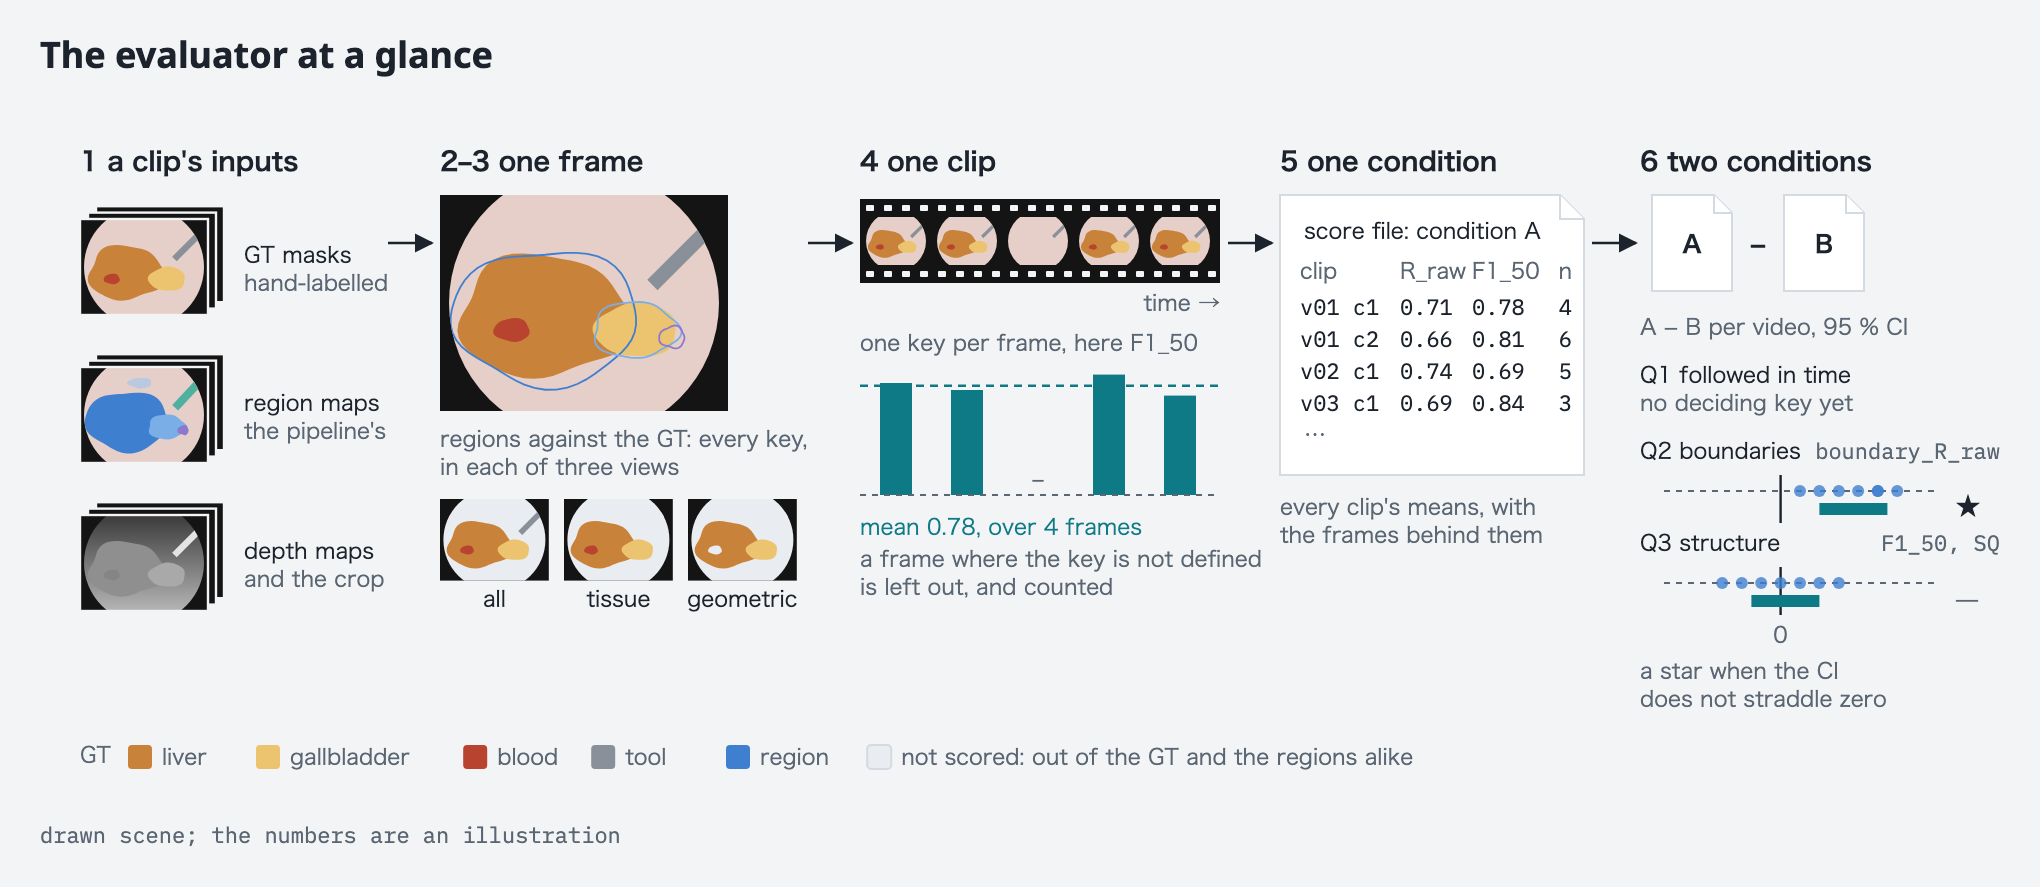
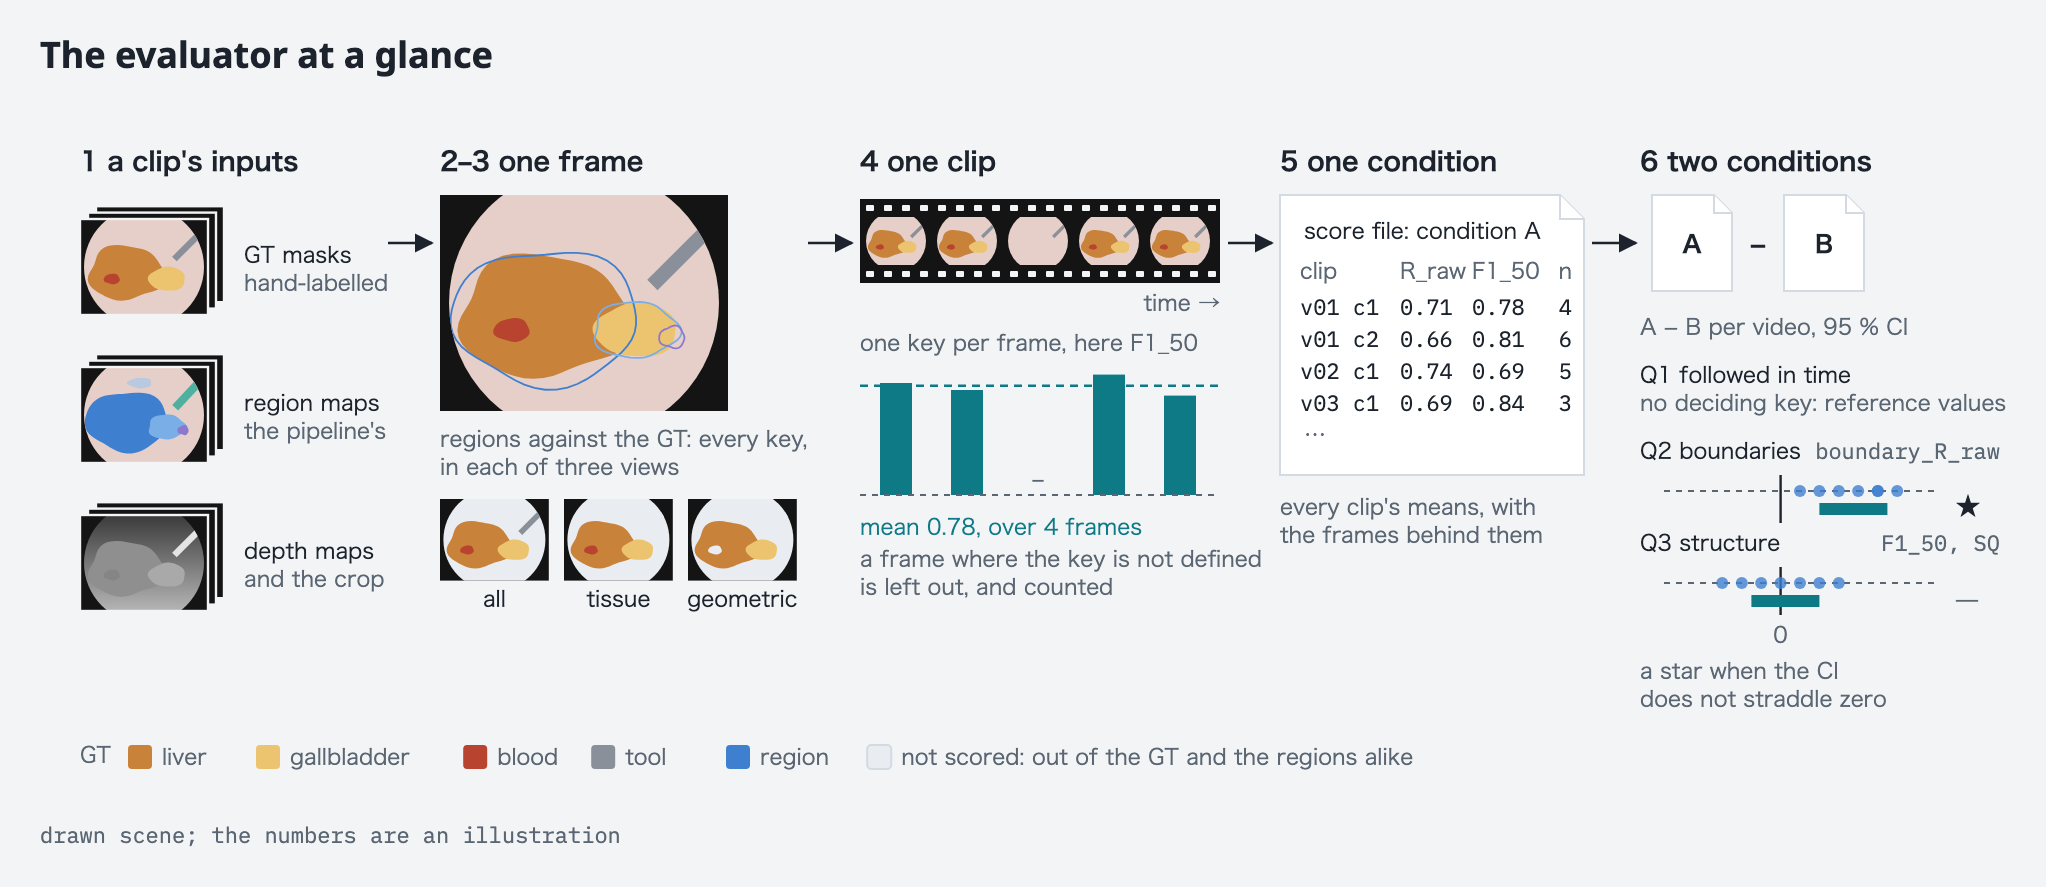
docs: kmerge gets a decision of its own, the GT track of track_metrics is an open question, and the figures follow
Review fixes on the identity-metrics decision:

- `docs/porting.md`: `kmerge` leaves "No measure over time carries a star",
  which does not cover it, for a decision of its own, "`kmerge` is a tool",
  worded as its port is: it writes merged predictions as a condition and
  computes no metric. The `kmerge` row names everything the workbench's
  copy borrows from `paired_stats`. The two pre-registered definitions of
  `hold_mean` are named. A new open question, "The GT track of
  `track_metrics`", holds what the tool's track definition leaves open.
- `docs/evaluation.md`: the faults list covers all five measures, and
  re-entry's fault is its definition, not its range of values. "only" is
  back in the `time_IoU` sentence. The summary names the section it points
  to instead of its place.
- `docs/figures/`: the three figures that said the first question was not
  decided yet are redrawn from their generators: Q1 has no key, identity over
  time is a tool's reference value, outside the evaluator.
- `evalkit/README.md`, `docs/workstreams.md`, `docs/pilot_metric_guide.html`,
  `AGENTS.md`: the same decision; `track_metrics` waits on its GT track,
  `kmerge` on nothing; the `tools/` line matches the other open ports.

diff --git a/docs/pilot_metric_guide.html b/docs/pilot_metric_guide.html
@@ -86,7 +86,7 @@ Pixels with no region count as a region of their own.</li>
[1 lines of base64/hex data omitted]
 <p class="note">An id present in only one of the two frames is skipped, so a region that disappears, or a new one,
 costs nothing. <span class="evaluator">The evaluator keeps time_IoU as a reference value only, and never gives it a star:
-coarse regions score well on it. How to score whether a region keeps its identity is not decided yet.</span></p>
+coarse regions score well on it. Whether a region keeps its identity is measured by a tool outside the evaluator, as reference values; no measure over time carries a star.</span></p>
 
 <h2>Behaviours to know</h2>
 <ul>

diff --git a/docs/porting.md b/docs/porting.md
@@ -117,23 +117,28 @@ Where they and this document differ, this document holds.
     value, and the evaluator computes no measure of identity from the
     workbench's `track_metrics` (hold, IDF1, ID switches, fragmentation,
     re-entry). `track_metrics` is ported as a tool under `evalkit/tools/`,
-    outside `eval_code_sha`, and what it reports is a reference value:
-    measured, and written about when it shows something, never marked with a
-    star. So `docs/evaluation.md` defines no GT track. The tool defines its
-    own when it is ported, without `MIN_AREA` ("No minimum object size,
-    anywhere"). The evaluator's whole-class object, followed over time, needs
-    no rule to link pieces and no size; the workbench linked each class's
-    components instead. If `hold_mean` is carried under that name, it keeps
-    the workbench's definition, which was pre-registered there. A different
-    denominator is a different metric, with a different name: in the
-    workbench, moving the denominator once flipped a result's sign. `kmerge`
-    is ported as a tool too. It changes predictions, not metrics: it merges a
-    condition's regions down to K, and the evaluator's instance metrics score
-    the merged regions, so a comparison of them is read like any other. The
-    paper's granularity result merges to a fixed K of 10. The `matched`
-    setting, which took K from the pilot's GT components of at least 300 px,
-    is not carried for now: under the evaluator a GT object is a whole class,
-    and that K would need a definition of its own.
+    outside `eval_code_sha`, and what it reports is a reference value: it
+    is measured and reported in a table that carries no star. So
+    `docs/evaluation.md` defines no GT track. The tool defines its own when
+    it is ported, without `MIN_AREA` ("No minimum object size, anywhere");
+    that track is an open question ("The GT track of `track_metrics`"). The
+    workbench pre-registered two definitions under the name `hold_mean`: one
+    per condition, in `track_metrics`, and one over the GT tracks that every
+    compared condition registered, in `summarize_track16`. The tool carries
+    at most one of them under that name, and the other under a name of its
+    own, because a different denominator is a different metric: in the
+    workbench, moving the denominator once flipped a result's sign. Which
+    one keeps the name is settled with the tool's GT track.
+14. **`kmerge` is a tool.** `kmerge` is ported under `evalkit/tools/`,
+    outside `eval_code_sha`. It changes predictions, not metrics: it merges
+    a condition's regions down to K and writes them as a condition of their
+    own, which the evaluator scores and `compare_eval` compares. So it
+    computes no metric, and a comparison of a merged condition can carry a
+    star like any other. The paper's granularity result merges to a fixed K
+    of 10. The `matched` setting, which took K from the pilot's GT
+    components of at least 300 px, is not carried for now: under the
+    evaluator a GT object is a whole class, and that K would need a
+    definition of its own.
 
 ## What moves
 
@@ -169,10 +174,10 @@ copy to read the RGB clips, and the ported copies read `evalkit.classes`.
 |---|---|---|---|
 | `paired_stats.py` | `ipcai2027_experiment/scripts/paired_stats.py` | `extract/03-metrics` (#3) | `VERDICT_RULE` does not change. The comparability check is `scores.check_comparable`, which applies the rule of `docs/evaluation.md`, in place of the pilot's, and the statistics are taken on the clips it compared. `video_of` is defined here rather than delegated. Each row records the metric's `sign` and `verdict` reads the interval in it, so a metric where smaller is better, or a reference value that is never marked, is not oriented by the caller. A bootstrap over fewer than two units refuses rather than return a point. |
 | `compare_eval.py` | `depth_sam_tracking_experiment/compare_eval.py` | `extract/03-metrics` (#3) | It refuses to mix shas through `scores.check_comparable`, which also compares dataset, class set, view and mode. The table prints each metric's direction and no mark: the workbench's circle and cross followed the sign of the mean difference, a second verdict beside `paired_stats.verdict`. The per-clip list, the chart and `wins` follow the question's primary metric, named with `--key`; the directions of the pilot keys come from `scores.PILOT_SIGNS`, the one table `paired_stats` reads too. |
-| `track_metrics.py` | `depth_sam_tracking_experiment/track_metrics.py` | `extract/03-metrics` (#3) | It imports `BACKGROUND`, `_gt_idmap` and `_load_depth` from the pilot's `eval_track`; they come from the evaluator instead. `MIN_AREA` is removed ("No minimum object size, anywhere"). It is a tool, outside the evaluator, and its values are reference values ("No measure over time carries a star"). |
+| `track_metrics.py` | `depth_sam_tracking_experiment/track_metrics.py` | `extract/03-metrics` (#3) | It imports `BACKGROUND`, `_gt_idmap` and `_load_depth` from the pilot's `eval_track`; they come from the evaluator instead. `MIN_AREA` is removed ("No minimum object size, anywhere"). It is a tool, outside the evaluator, and its values are reference values ("No measure over time carries a star"). Its GT track is open ("The GT track of `track_metrics`"). |
 | `surgical_core/clip_time.py` | `surgical_core/clip_time.py` | `extract/03-metrics` (#3) | English only. |
 | `surgical_core/viewer/labels.py`, `palette.py` | `surgical_core/viewer/` | `extract/03-metrics` (#3) | English only. `label_table_of` and `cholec_gt_table` move to a new `gt_tables.py`, the one viewer module that imports `evalkit`; `labels.py` builds its table from plain data, so a video with no class table gets one too. The rest of `surgical_core/viewer` is below, under "Not yet extracted anywhere". |
-| `kmerge.py` | `ipcai2027_experiment/scripts/kmerge.py` | `extract/04-kmerge` (#5) | It imports the pilot's `eval_track`, and borrows `verdict` from `paired_stats`. It keeps its own copy of `video_of`, which the port takes from `paired_stats` instead. It is a tool ("No measure over time carries a star"), and takes the evaluator's instance metrics in place of the pilot's. |
+| `kmerge.py` | `ipcai2027_experiment/scripts/kmerge.py` | `extract/04-kmerge` (#5) | It imports the pilot's `eval_track`, borrows `verdict`, `boot_ci`, `SEED_SCHEME` and `VERDICT_RULE` from `paired_stats`, and keeps a copy of `video_of`. It is ported as `evalkit/tools/kmerge.py`, outside `eval_code_sha` ("`kmerge` is a tool"). It merges a condition's predictions down to K and writes them as a condition of their own, which the evaluator scores and `compare_eval` compares, so it computes no metric and borrows nothing from `paired_stats`. Not carried for now: its scoring with the pilot's instance metrics, the curve over K, the `matched` K, `--pairs`, and the merges by threshold and by geometry (`tmerge_sequence`, `kgeo_sequence`). |
 | `surgical_core/geometry/` | `depth_sam_tracking_experiment/geometry.py` | `extract/04-kmerge` (#5) | English only. Shared by the pipeline and the toolkit. |
 | `condition_inventory.py` | `ipcai2027_experiment/scripts/condition_inventory.py` | `extract/05-inventory` (#4) | It reads `eval_code_sha`, `eval_code_tag` and `eval_version` from score JSONs. "One ruler" is now what `docs/evaluation.md` calls comparable: `eval_code_sha`, dataset, class set, view and mode all equal, and one propagation rule. The provenance fields now include `bidir`, whether the tracker ran both ways. |
 | `check_env.py` | `ipcai2027_experiment/atlas97/scripts/check_env97.py` | `extract/05-inventory` (#4) | Not carried (decision 4). |
@@ -256,7 +261,7 @@ while the evaluator is built and reviewed is worked out in `docs/workstreams.md`
 
 1. **Decide what the evaluator measures over time.** Decided: no measure
    over time carries a star, and `track_metrics` and `kmerge` are tools
-   ("No measure over time carries a star").
+   ("No measure over time carries a star", "`kmerge` is a tool").
 2. **Build the evaluator.** CPU only, as the `evalkit` package. Class tables,
    then metrics, then the entry point. It is done when:
    - the hand-derived tests pass, in both modes;
@@ -325,9 +330,29 @@ Every command takes those paths as arguments.
 
 ## Open questions
 
-1. **The skill-classification code and the other 18 viewer pages.** The plan
+1. **The GT track of `track_metrics`.** The tool measures identity against
+   GT tracks, and the datasets carry no ids for individual things, so the
+   tool defines the track itself ("No measure over time carries a star").
+   The workbench linked each class's connected components over time: a
+   component joins a track of the same class when its IoU with the track's
+   last mask is at least 0.3, a track stays a candidate for three missed
+   observations, and the links are made greedily, largest IoU first. Open
+   before the tool is ported:
+   - whether a track is one class's whole-class object followed over time,
+     which needs no linking rule, or linked components, which need one;
+   - if components, the linking rule: the IoU threshold, how many missed
+     observations a track survives, and which pixels make an observation
+     now that no size cut applies;
+   - how time is counted, in observations as the workbench did or in
+     seconds, since the GT frames are not evenly spaced;
+   - which of the two pre-registered `hold_mean` definitions keeps the name
+     ("No measure over time carries a star");
+   - what hold means under forward propagation (`forward_from_first`),
+     where its time offsets from the seed frame run one way only; the
+     workbench claimed this changes the measure and did not measure it.
+2. **The skill-classification code and the other 18 viewer pages.** The plan
    leaves both behind. The paper's figures come from some of those pages.
-2. **Whether step 5 has to finish before submission.** Step 3 already gives
+3. **Whether step 5 has to finish before submission.** Step 3 already gives
    the numbers. A stage that passes step 5's byte check cannot change them;
    the 14 clips re-extracted under "CholecSeg8k clips whose frames run out
    of order" can, and so can depth made again under "Depth made by two

diff --git a/docs/evaluation.md b/docs/evaluation.md
@@ -34,7 +34,8 @@ robot-assisted videos of 14 procedures, 42 classes) and CholecSeg8k
   the regions hold, judged on `F1_50` (objects found, with every extra region
   counted against it) and `SQ` (how well the found ones fit), in the
   geometric view. The third, how far a region picked out in one frame can be
-  followed, is answered with reference values only (the last point below).
+  followed, is answered with reference values only ("Consistency over time:
+  reference values only", below).
 - **Regions are named from the GT.** Each region takes the class most of its
   pixels have in the GT, so the class-map metric `mIoU` is an oracle value,
   kinder than any real classifier would get.
@@ -49,7 +50,7 @@ robot-assisted videos of 14 procedures, 42 classes) and CholecSeg8k
   which stays frozen in the private research workbench. Run with its rules
   (*pilot mode*), this evaluator must reproduce its scores exactly.
 - **Consistency over time: reference values only.** The pilot evaluator's
-  `time_IoU` is kept as a reference value, because coarse regions score well
+  `time_IoU` is kept, as a reference value only: coarse regions score well
   on it. Measures of whether a tracked thing keeps its identity — hold, IDF1,
   ID switches, fragmentation, re-entry — are computed by a tool outside the
   evaluator and reported as reference values too. No measure over time
@@ -64,7 +65,7 @@ Scoring runs in six steps. The evaluator reads a clip's inputs, scores a
 frame in one view and then in all three, averages each key over the clip, and
 writes one score file per condition. The tools then compare two conditions.
 
-![Scoring in six steps on a drawn scene: a clip's inputs; one frame, scored in each of three views (steps 2 and 3); one clip, each key's mean over its frames; one condition, one score file; two conditions, the key that decides each question.](figures/evalkit_overview.png)
+![Scoring in six steps on a drawn scene: a clip's inputs; one frame, scored in each of three views (steps 2 and 3); one clip, each key's mean over its frames; one condition, one score file; two conditions, the key that decides the second and the third question.](figures/evalkit_overview.png)
 
 The second figure shows the same steps part by part. Each box names, in its
 corner, the module or package that holds the part, so a rule below can be
@@ -483,19 +484,26 @@ from still covers the same GT thing seconds later), IDF1, ID switches,
 fragmentation and re-entry. The evaluator computes none of them. Each needs
 a GT track, and the datasets carry no ids for individual things, so a GT
 track would be a second object definition, in addition to the whole-class
-object used above. The workbench also measured a fault in each:
+object used above. The workbench also measured a fault in four of them, and
+the fifth depends on a rule:
 
 - two denominators of hold, both pre-registered, gave one comparison
   opposite signs;
 - IDF1 rises when regions merge;
-- re-entry scored 0.97 to 1.00 for every condition.
+- ID switches cannot tell a tracker from a floor that never moves: one mask
+  pasted on every frame scores close to zero;
+- re-entry counts a gap of at most three observations in a GT track, not a
+  return to the field of view, and it drops every gap whose two ends are
+  not both matched, which in the workbench was most of them;
+- fragmentation changes with the rule that links the GT track, so its value
+  is a property of the track definition as much as of the condition.
 
 So a tool outside the evaluator, `evalkit/tools/track_metrics`, computes the
-measures of identity, and they are reported as reference values: measured,
-and written about when they show something, but never marked with a star.
-The tool defines its own GT track. A measure that is to carry a star would
-have to be computed by the evaluator before the evaluator is frozen, and
-none is.
+measures of identity, and they are reported as reference values: in a table
+that carries no star. The tool's GT track is an open question
+(`docs/porting.md`, "The GT track of `track_metrics`"). A measure that is to
+carry a star would have to be computed by the evaluator before the
+evaluator is frozen, and none is.
 
 ## Rules that keep the numbers honest
 

diff --git a/docs/workstreams.md b/docs/workstreams.md
@@ -75,16 +75,16 @@ say, in the form a session starting cold needs.
 
 ## Not now: blocked on a decision
 
-`track_metrics` and `kmerge` are decided: tools outside the evaluator. They
-wait for the evaluator's reader of a clip's inputs, whose GT and depth
-loaders they take in place of the pilot's. The tracking stage and the
-per-frame segmentation stage wait on decisions too, and the stages after
-tracking wait on the tracking stage. The questions are named as
-`docs/porting.md` heads them.
+`track_metrics` and `kmerge` are decided: tools outside the evaluator
+("No measure over time carries a star", "`kmerge` is a tool").
+`track_metrics` waits on its GT track; `kmerge` waits on nothing and is
+listed under "Now". The tracking stage and the per-frame segmentation stage
+wait on decisions, and the stages after tracking wait on the tracking
+stage. The questions are named as `docs/porting.md` heads them.
 
 | piece | waits for |
 |---|---|
-| `track_metrics`, `kmerge` | the evaluator's reader of a clip's inputs, `evalkit/inputs.py` |
+| `track_metrics` | "The GT track of `track_metrics`" |
 | the tracking stage: `track_sam3.py`, `sam3_wrapper/` and their helpers | "The seed frame chosen from GT", "The edge ring as a process-wide flag", and `track_metrics`, whose seed helpers it imports |
 | the per-frame segmentation stage: `run_per_frame_seg.py`, `geom_blend.py` | "The edge ring as a process-wide flag" |
 | the export stages and the viewer | the tracking stage, whose output they read |
@@ -108,6 +108,7 @@ both sides at the operating point's `--seed_inst_thresh 1.0` instead.
 |---|---|---|---|
 | `evalkit/metric-guide` | a page that shows each metric on the test scenes | E `archive/metric-guide` | anywhere |
 | `docs/short-headers` | the module headers of `main` brought under the cap of `docs/review.md` | this repository | anywhere |
+| `tools/kmerge` | `kmerge` as a tool: a condition's predictions merged down to K, written as a condition of their own | E `extract/04-kmerge`, then W `ipcai2027_experiment/scripts/kmerge.py` | anywhere |
 
 The depth stages can start today too. Their port runs anywhere and their
 check needs W and G; they have a section of their own, at the end.

diff --git a/evalkit/README.md b/evalkit/README.md
@@ -10,7 +10,7 @@ The pipeline cuts every frame of a surgical video into regions and follows
 them over time. It is not trained on surgery and it never names a region.
 Against two public datasets with hand-labelled masks, the evaluator asks
 three questions. Two of them are decided by keys named here; the other keys
-help explain the answer.
+help explain the answers.
 
 - **Given one frame as an example, how far can the regions be followed?**
   With no training, for how many frames does a region picked out once keep
@@ -50,14 +50,14 @@ conditions vary what the pipeline is given, the image, the depth or both.
 
 ## The map
 
-![The evaluator at a glance: a clip's inputs; one frame, scored in three views; one clip, each key's mean over its frames; one condition, one score file; two conditions, the key that decides each question](../docs/figures/evalkit_overview.png)
+![The evaluator at a glance: a clip's inputs; one frame, scored in three views; one clip, each key's mean over its frames; one condition, one score file; two conditions, the key that decides the second and the third question](../docs/figures/evalkit_overview.png)
 
 Six steps, from a clip's inputs to the three questions: steps 2 to 5 score
 one condition, and step 6 compares two.
 
 The same steps, part by part: what each part computes, and the module that
-holds it. Arrows say what is computed from what; Q1 to Q3 mark the parts that
-hold the key deciding each question above. What a module returns is in its
-docstring.
+holds it. Arrows say what is computed from what; Q2 and Q3 mark the parts
+that hold the key deciding those questions above, and the first question has
+none. What a module returns is in its docstring.
 
 ![The evaluator, part by part: a clip's inputs; scored pixels and the keys of one frame in one view; one frame in every view; one clip; one score file per condition; the tools that compare two conditions](../docs/figures/evaluator_map.png)

diff --git a/AGENTS.md b/AGENTS.md
@@ -69,8 +69,8 @@ omnisurg-4d-scene-graph/
 ├── LICENSE  README.md  CITATION.cff  pyproject.toml
 ├── surgical_core/     cholec atlas120k geometry pointcloud preprocess viewer clip_time
 ├── evalkit/           the evaluator, hashed into eval_code_sha with its class tables
-│   └── tools/         what reads scores or measures reference values, never hashed:
-│                      scores paired_stats compare_eval condition_inventory pilot_check
+│   └── tools/         what reads scores or predictions, never hashed: scores
+│                      paired_stats compare_eval condition_inventory pilot_check
 │                      (track_metrics, kmerge: not yet ported)
 ├── pipeline/          depth → segmentation → tracking → viewer export
 ├── recon3d_wrapper/   3D reconstruction — DA3 and Pi3 behind one interface
